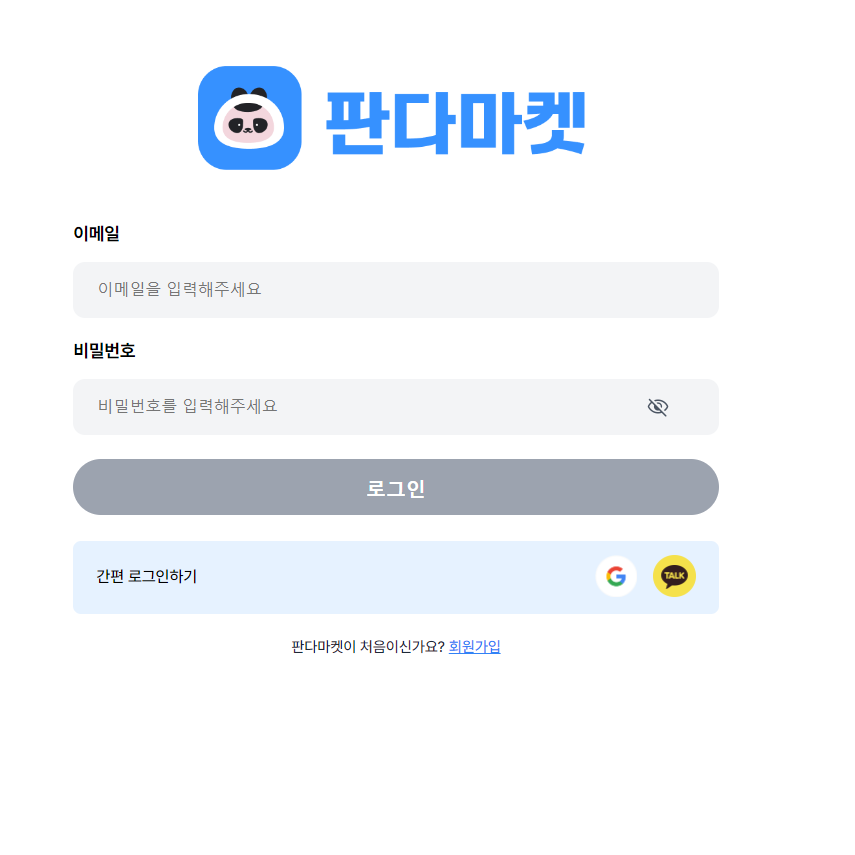
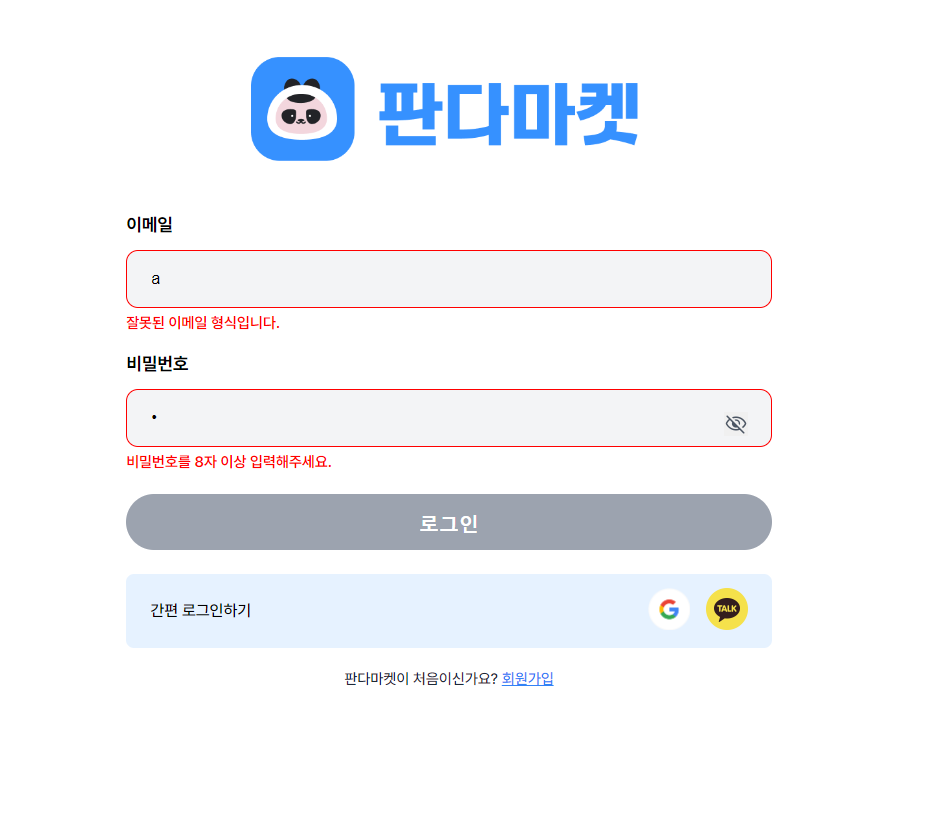
pr page, img update

diff --git a/.github/pull-request-template.md b/.github/pull-request-template.md
@@ -1,120 +1,81 @@
-## 요구사항
+# 요구사항
+## 기본
 
-### 기본
-## mission 1
+### 공통
+- [X] Github에 스프린트 미션 PR을 만들어 주세요.
 
-- [x]  React와 같은 UI 라이브러리를 사용하지 않고 진행합니다
+### 로그인, 회원가입 페이지 공통
+- [X] 로그인 및 회원가입 페이지의 이메일, 비밀번호, 비밀번호 확인 input에 필요한 유효성 검증 함수를 만들고 적용해 주세요.
 
-- [x]  PC사이즈만 고려해 주어진 디자인으로 구현합니다.
+- [X] 이메일 input에서 focus out 할 때, 값이 없을 경우 input에 빨강색 테두리와 아래에 “이메일을 입력해주세요.” 빨강색 에러 메세지를 보입니다.
 
-- [x]  HTML, CSS 파일을 Netlify로 배포해 주세요. (참고: https://www.codeit.kr/learn/5309)
+- [X] 이메일 input에서 focus out 할 때, 이메일 형식에 맞지 않는 경우 input에 빨강색 테두리와 아래에 “잘못된 이메일 형식입니다” 빨강색 에러 메세지를 보입니다.
 
-- [x]  랜딩 페이지의 url path는 루트(‘/’)로 설정합니다.
+- [X] 비밀번호 input에서 focus out 할 때, 값이 없을 경우 아래에 “비밀번호를 입력해주세요.” 에러 메세지를 보입니다
 
-- [x]  title은 “판다마켓”로 설정합니다.
+- [X] 비밀번호 input에서 focus out 할 때, 값이 8자 미만일 경우 아래에 “비밀번호를 8자 이상 입력해주세요.” 에러 메세지를 보입니다.
 
-- [x]  “판다마켓” 로고 클릭 시 루트 페이지(‘/’)로 이동합니다.
+- [X] input 에 빈 값이 있거나 에러 메세지가 있으면 ‘로그인’ 버튼은 비활성화 됩니다.
 
-- [x]  '로그인' 버튼 클릭 시 로그인 페이지(‘/login’)로 이동합니다 (빈 페이지)
+- [X] Input 에 유효한 값을 입력하면 ‘로그인' 버튼이 활성화 됩니다.
 
-- [x]  “구경하러 가기”버튼 클릭 시(’/items’)로 이동합니다. (빈 페이지)
+- [X] 활성화된 ‘로그인’ 버튼을 누르면 “/items” 로 이동합니다
+로그인 페이지
 
-- [x]  “Privacy Policy”, “FAQ”는 클릭 시 각각 Privacy 페이지(‘/privacy’), FAQ 페이지(‘/faq’)로 이동합니다.(모두 빈 페이지)
+### 로그인 페이지
+- [X] 이메일과 비밀번호를 입력하고 로그인 버튼을 누른 후, 다음 조건을 참조하여 로그인 성공 여부를 alert 메시지로 출력합니다.
+- - [X] 만약 입력한 이메일이 데이터베이스(USER_DATA)에 없거나, 이메일은 일치하지만 비밀번호가 틀린 경우, '비밀번호가 일치하지 않습니다.'라는 메시지를 alert로 표시합니다
+- - [X] 만약 입력한 이메일이 데이터베이스에 존재하고, 비밀번호도 일치할 경우, “/items”로 이동합니다.
+회원가입
 
-- [x]  페이스북, 트위터, 유튜브, 인스타그램 아이콘을 클릭 시 각각의 홈페이지로 새로운 창이 열리면서 이동합니다.
+### 회원가입
+- [X] 회원가입을 위해 이메일, 닉네임, 비밀번호, 비밀번호 확인을 입력한 뒤, 회원가입 버튼을 클릭하세요. 그 후에는 다음 조건에 따라 회원가입 가능 여부를 alert로 알려주세요.
+- - [X] 입력한 이메일이 이미 데이터베이스(USER_DATA)에 존재하는 경우, '사용 중인 이메일입니다'라는 메시지를 alert로 표시합니다.
+- - [X] 입력한 이메일이 데이터베이스(USER_DATA)에 없는 경우, 회원가입이 성공적으로 처리되었으므로 로그인 페이지(”/login”)로 이동합니다.
 
-- [x]  아래로 스크롤해도 “판다 마켓” 로고와 “로그인” 버튼이 있는 상단 내비게이션 바(Global Navigation Bar)가 최상단에 고정되게 해 주세요.
+## 심화
+### 공통
+- [] 페이스북, 카카오톡, 디스코드, 트위터 등 SNS에서 판다마켓 랜딩 페이지(“/”) 공유 시 미리보기를 볼 수 있도록 랜딩 페이지 메타 태그를 설정합니다.
+- [ ] 미리보기에서 제목은 “판다마켓”, 설명은 “일상에서 모든 물건을 거래해보세요”로 설정합니다.
+- [ ] 주소와 이미지는 자유롭게 설정하세요.
+- [X] 로그인, 회원가입 페이지에 공통으로 사용하는 로직이 있다면, 반복하지 않고 공통된 로직을 모듈로 분리해 사용해 주세요.
 
-- [x]  화면의 너비가 1920px 이상이면 하늘색 배경색은 너비를 꽉 채우도록 채워지고, 내부 요소들의 위치는 고정되고, 여백만 커지도록 합니다.
+### 랜딩 페이지
+- [X] 브라우저에 현재 보이는 화면의 영역(viewport) 너비를 기준으로 분기되는 반응형 디자인을 적용합니다.
+- - PC: 1200px 이상
+- - Tablet: 744px 이상 ~ 1199px 이하
+- - Mobile: 375px 이상 ~ 743px 이하
+- - 375px 미만 사이즈의 디자인은 고려하지 않습니다
 
-- [x]  화면의 너비가 1920px 보다 작아질 때, “판다마켓” 로고의 왼쪽 여백 200px, “로그인" 버튼의 오른쪽 여백 200px이 유지되고, 화면의 너비가 작아질수록 두 요소 간 거리가 가까워지도록 설정합니다.
+- [X] Tablet 사이즈로 작아질 때 최소 좌우 여백이 “판다마켓” 로고의 왼쪽에 여백 24px, “로그인” 버튼 오른쪽 여백 24px을 유지할 수 있도록 “판다마켓” 로고와 “로그인" 버튼의 간격이 가까워집니다.
 
-- [x]  화면의 너비가 1920px 이상이면 내부에 있는 요소 간 동일한 간격을 유지하며 가운데 정렬해야 합니다.
+- [X] Mobile 사이즈로 작아질 때 최소 좌우 여백이 “판다마켓” 로고의 왼쪽에 여백 16px, “로그인” 버튼 오른쪽 여백 16px을 유지할 수 있도록 “판다마켓” 로고와 “로그인" 버튼의 간격이 가까워집니다.
 
-- [x]  화면의 너비가 1920px 보다 작아질 때, 최하단에 있는 “codeit-2024”의 왼쪽 여백 200px과 SNS 아이콘들의 오른쪽 여백 200px을 유지하면서 가운데 있는 “Privacy Policy”, “FAQ” 요소와 각각 동일한 간격을 유지하며 가까워져야 합니다.
+- [X] PC, Tablet 사이즈의 이미지 크기는 고정값을 사용합니다.
 
-- [x]  클릭으로 기능이 동작해야 하는 경우, 사용자가 클릭할 수 있는 요소임을 알 수 있도록 CSS 속성 cursor: pointer로 설정합니다.
+- [X] Mobile 사이즈의 이미지는 좌우 여백 32px을 제외하고 이미지 영역이 꽉 차게 구현합니다. (이때 가로가 커지는 비율에 맞춰 세로도 커져야 합니다.)
 
-- ------------------------------
-## mission 2
+- [X] Mobile 사이즈 너비가 커지면, “Privacy Policy”, “FAQ”, “codeit-2023”이 있는 영역과 SNS 아이콘들이 있는 영역의 사이 간격이 커집니다.
 
-- [x]  README.md 파일을 작성해 주세요.
+### 로그인, 회원가입 페이지 공통
 
- - - [x] 마크다운 언어를 숙지하여 작성해 주세요.
+- [X] Tablet 사이즈에서 내부 디자인은 PC사이즈와 동일합니다.
 
- - - [x] 내용은 자유롭게 작성해 주세요.
+- [X] Mobile 사이즈에서 좌우 여백 16px 제외하고 내부 요소들이 너비를 모두 차지합니다.
 
-- [x]  본인 브랜치(ex)part1-홍길동)에 스프린트 미션을 업로드해 주세요.
-
-- [x]  적절한 커밋 메시지를 남겨 주세요.
-
-- [x]  1-Sprint-Mission 레포지토리를 fork 합니다.
-
-- [x]  GitHub에 PR(Pull Request)을 생성해 upstream의 본인 브랜치(ex)part1-홍길동)에 미션을 제출합니다.
-
-- [x]  PR 코멘트에 아래 내용들을 포함해 주세요.
-
-- - [x]  스프린트 미션 요구사항 체크리스트
-
-- - [x] 아래 예시 사진과 같이 완료한 만큼 체크 표시를 해 주세요. 참고
-
-- - [x]  주요 변경사항
-
-- - [x]  멘토님에게 남길 메시지
-
-[x]  Git 활용 과정에서 유닉스 커맨드를 활용해 주세요.
-
-- [x]  HTML, CSS 파일을 Netlify로 배포합니다. (참고: https://www.codeit.kr/learn/5309)
-
-- [x] “판다마켓" 로고 클릭 시 루트 페이지(“/”)로 이동합니다.
-
-- [x] 로그인 페이지, 회원가입 페이지 모두 로고 위 상단 여백이 동일합니다.
-
-- [x] SNS 아이콘들은 클릭 시 각각 “https://www.google.com/”, “https://www.kakaocorp.com/page/” 으로 이동합니다.
-
-- [x] input 요소에 focus in 일 때, 테두리 색상은 ##3692FF입니다.
-
-- [x] input 요소에 focus out 일 때, 테두리는 없습니다.
-
-- [x] “회원가입”버튼 클릭 시 “/signup” 페이지로 이동합니다.
-
-- [x] “로그인”버튼 클릭 시 “/login” 페이지로 이동합니다
-
-### 심화
-## mission 1
-
-- [x] reset.css를 설정해 주세요.
-
-- [x] 사용자의 브라우저 설정에 따라 기본 폰트 크기 설정이 변화함에 따라서 페이지의 요소 간 간격, 요소의 크기, font-size 등 모든 크기와 관련된 값이 크고 작아지도록 설정해 주세요.
-
--------------------------------------
-## mission 2
-
-- [x] palette에 있는 color값들을 css 변수로 등록해서 사용합니다.
-
-- [x] 사용자의 브라우저가 크고 작아짐에 따라 페이지의 요소 간 간격, 요소의 크기, font-size 등 모든 크기와 관련된 값이 크고 작아지도록 설정해 주세요.
-
-- [x] 구글 애널리틱스로 방문자 수 확인하기 할 수 있도록 설정합니다.
-
-- [x] 비밀번호, 비밀번호 확인 input 요소 오른쪽에 비밀번호를 확인할 수 있는 눈 모양 아이콘을 추가합니다.
-
-## 주요 변경사항
-
-- mission 1
-
-  : 초기 웹 페이지 (index.html) 화면 구축
-
-----------------------
-- mission 2
-  : 로그인(login.html), 회원가입(signup.html) 페이지 화면 구축
+- [X] Mobile 사이즈에서 내부 요소들의 너비는 기기의 너비가 커지는 만큼 커지지만 400px을 넘지 않습니다.
+- [X] 오류 메시지 모달을 구현합니다. 모달 내 내용은 alert 메시지와 동일합니다.
 
 ## 스크린샷
 
-![image](../page_img/index.png)
-![image](../page_img/login.png)
-![image](../page_img/signup.png)
-![image](../page_img/g_analytics.png)
+![image](./page_img/index.png)
+![image](./page_img/login.png)
+![image](./page_img/login_modal.png)
+![image](./page_img/signup.png)
+![image](./page_img/signup_modal.png)
+![image](./page_img/g_analytics.png)
 
 ## 멘토에게
-
+- 심화 -> 랜딩 페이지 조건의 'PC, Tablet 사이즈의 이미지 크기는 고정값을 사용합니다.' 의 의미가 px로 고정하라는 것이 맞는지 모르겠습니다.
+- 로그인(회원가입)시 유효성 검사의 조건이 안맞으면 error 변수에 특정 값이 들어가 버튼 활성화가 안되게 구현했습니다. 근데 이렇게 하니까 유효성 검사 기능이 늘어날 수록 로직이 꼬일 거 같습니다. 로그인 버튼 활성화 기능을 어떻게 구현하는게 효율적인지 궁금합니다. 
 - 셀프 코드 리뷰를 통해 질문 이어가겠습니다.
